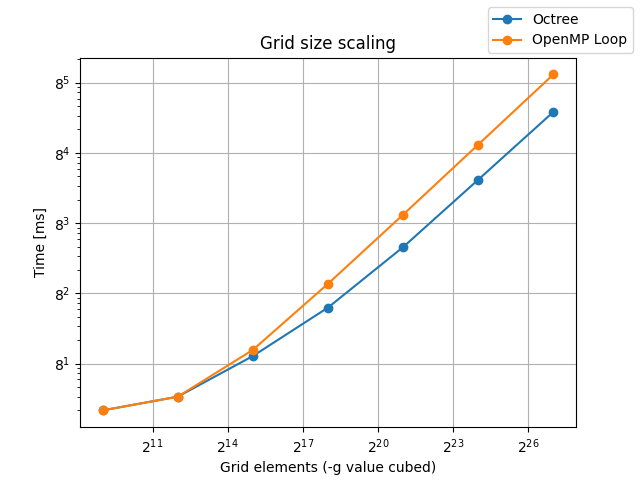
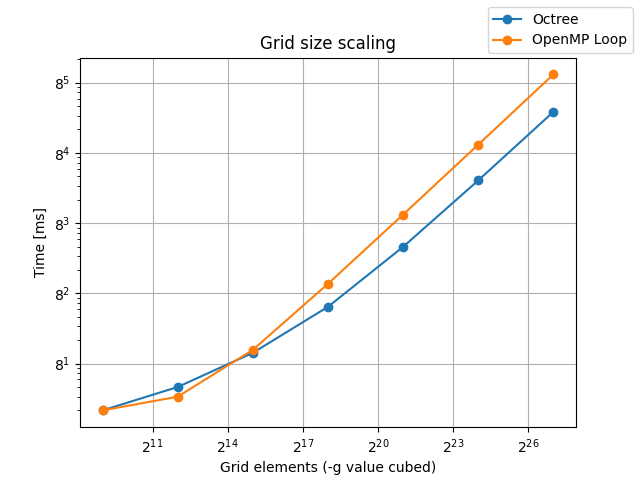
PMC file updated

diff --git a/parallel_builder/tree_mesh_builder.cpp b/parallel_builder/tree_mesh_builder.cpp
@@ -15,7 +15,7 @@
 #include "tree_mesh_builder.h"
 
 #undef DEBUG
-#define OPTIMIZATION 1 // Why 1 is not working?
+#define OPTIMIZATION 2 // Why 1 is not working?
 
 TreeMeshBuilder::TreeMeshBuilder(unsigned gridEdgeSize)
         : BaseMeshBuilder(gridEdgeSize, "Octree") {
